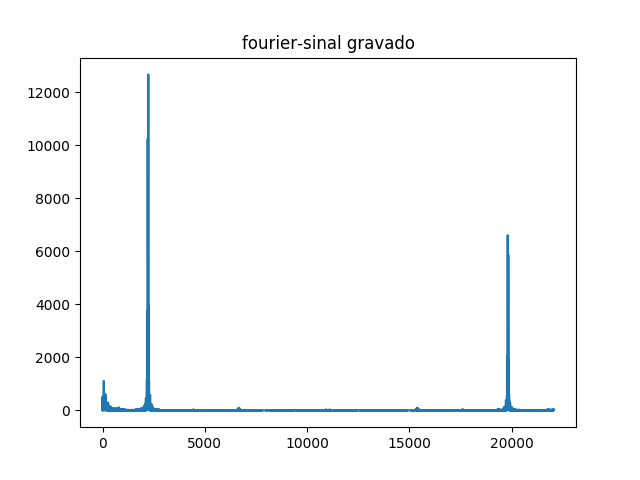
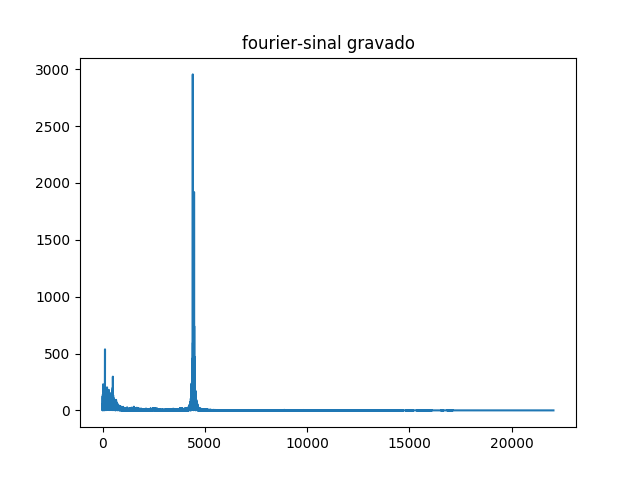
oioioi

diff --git a/08-AM/decode.py b/08-AM/decode.py
@@ -27,7 +27,7 @@ class Decode(object):
         self.freq1 = 0
         self.freq2 = 0
         self.amplitude = 1 # amplitude da onda formada
-        self.duration = 2 # segundos
+        self.duration = 5 # segundos
         self.gainX  = 0.3
         self.gainY  = 0.3
         self.duration = rec
@@ -71,14 +71,12 @@ class Decode(object):
         print("Começando a gravar!")
         print("====================\n")
         
-        myrecording = sd.rec(self.duration * self.freqAmostra, samplerate=self.freqAmostra, 
-        channels=2, blocking=True)# Possivelmente é necessário utilizar "channels=2" no ubuntu
+        myrecording = sd.rec(self.duration * self.freqAmostra, samplerate=self.freqAmostra, channels=1)# Possivelmente é necessário utilizar "channels=2" no ubuntu
         sd.wait()
 
         sound = []
         for sublist in myrecording:
-            for item in sublist:
-                sound.append(item)
+            sound.append(sublist[0])
         print("")
         print("\n======================")
         print("Finalizando gravação!")
@@ -95,7 +93,7 @@ class Decode(object):
         """
         bib = bibSignal.signalMeu()
         sd.default.samplerate = self.freqAmostra
-        sd.default.channels = 2
+        sd.default.channels = 1
         print("\nA captura de áudio iniciará em 5 segundos")
         t0 = time.time()
         t1 = time.time()
@@ -114,8 +112,7 @@ class Decode(object):
         sd.wait()
         audio = []
         for sublist in audio1:
-            for item in sublist:
-                audio.append(item)
+            audio.append(sublist[0])
         print("")
         print("\n======================")
         print("Finalizando gravação!")
@@ -191,10 +188,9 @@ class Decode(object):
     def moduleAM(self, pb):
         f = 14000 # freq a ser modulada em Hz
         b = bibSignal.signalMeu()
-        Cx, Cs = b.generateSin(f, self.amplitude, self.duration, self.freqAmostra)
-        # S = Cs*pb
+        Cx, Cs = b.generateSin(14000,1,7,44100)
         S = []
-        for m in range(len(Cs)):
+        for m in range(len(pb)):
             S.append(Cs[m]*pb[m])
         f = fpb.PassaBaixa(S, self.freqAmostra)
         pb = f.filtro()
